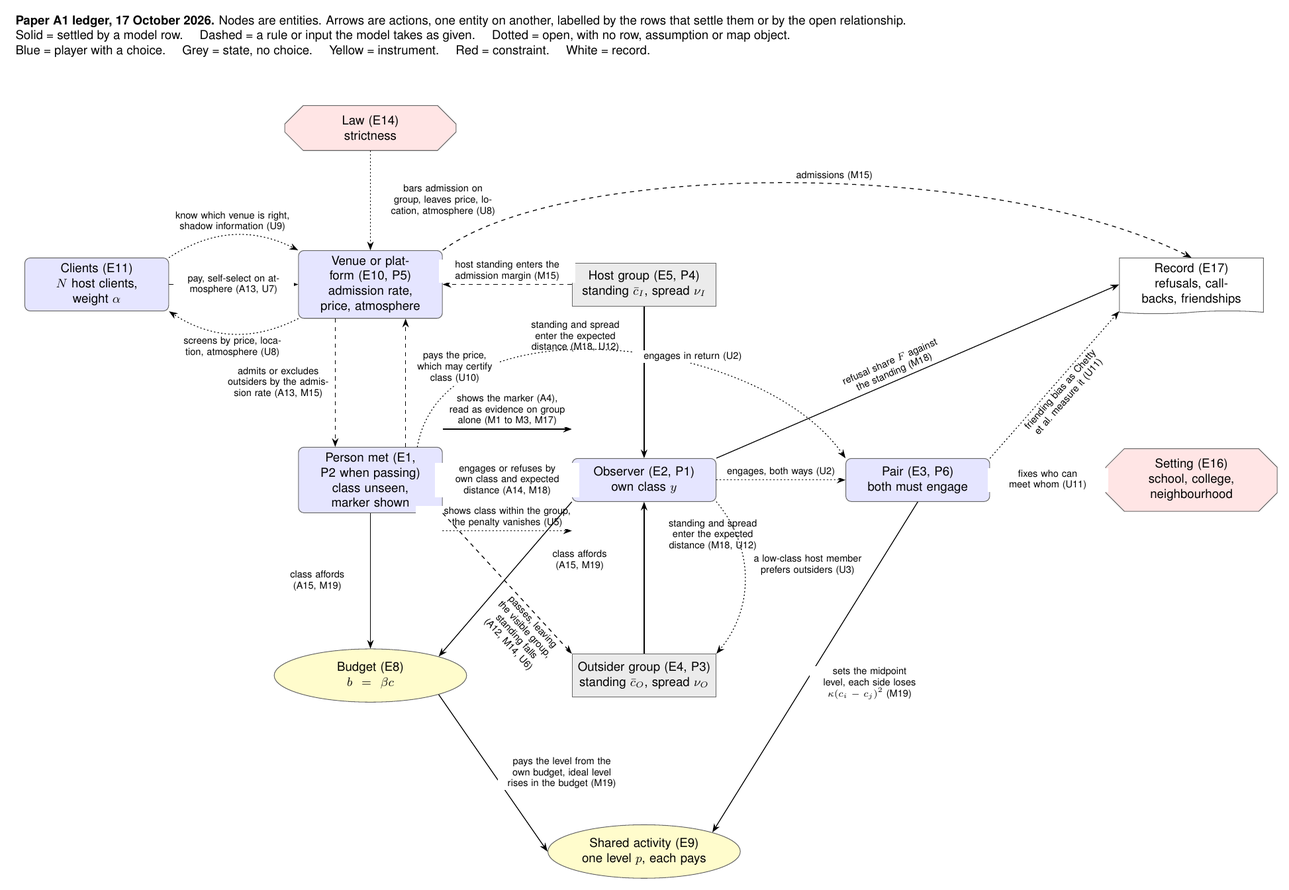
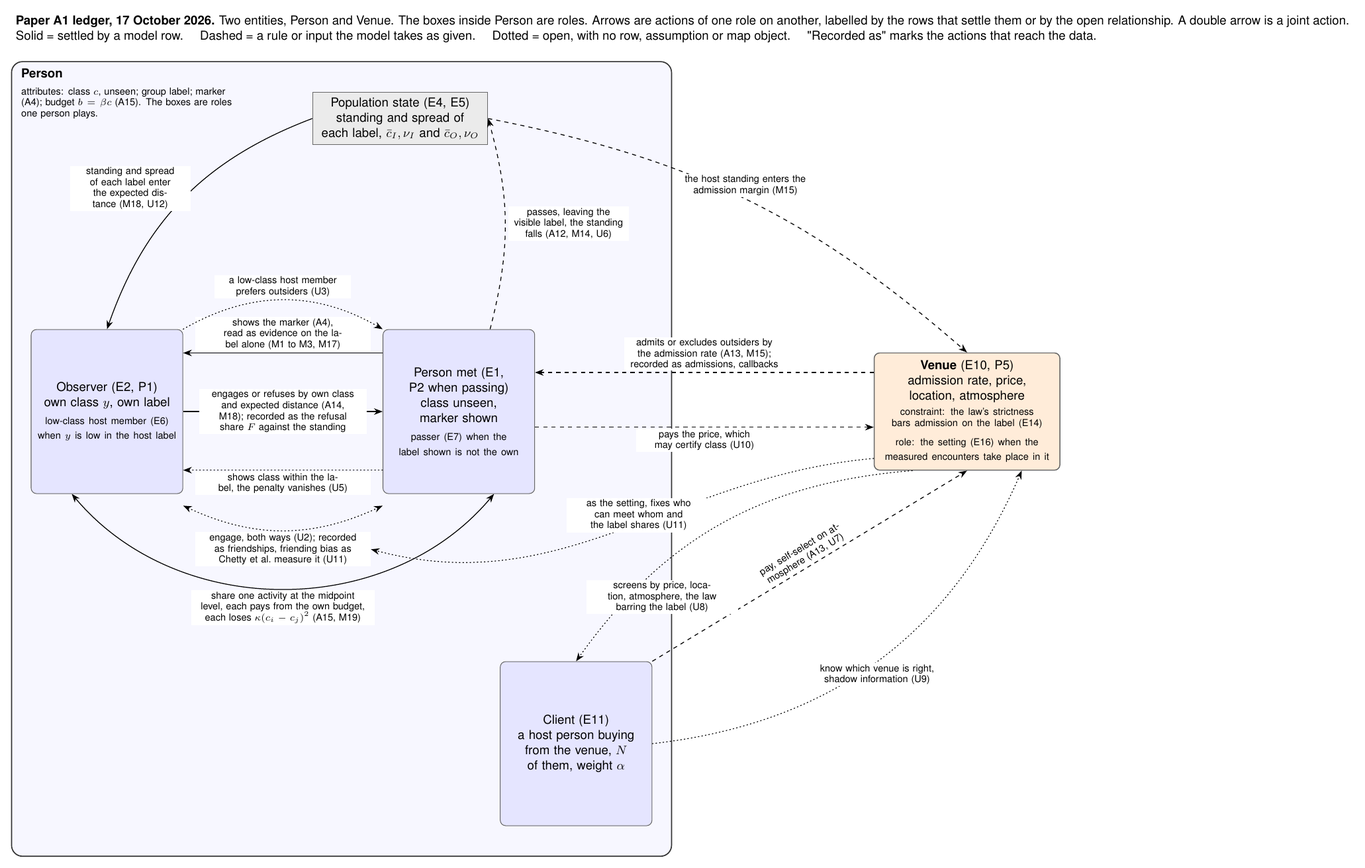
Ledger diagram: two entities, Person and Venue; roles, attributes and actions for the rest
The author's rule of 17 October 2026: the pair, the groups, the clients,
the law, the setting, the budget, the shared activity and the record are
not entities. The pair and the activity are joint actions, the groups are
the population state of Person, the clients are a role, the law is a
constraint on the venue, the setting is the venue in a role, the budget
is an attribute and the record is the measured-as status of an action.
Fifteen actions: four settled, five taken as given, six open.

Claude-Session: https://claude.ai/code/session_014wKmtj49okzQTBLL2ot8Zo

diff --git a/papers/subjective_racism/paper_a/notes/ledger_diagram.tex b/papers/subjective_racism/paper_a/notes/ledger_diagram.tex
@@ -1,83 +1,87 @@
 % Ledger diagram of Paper A1, 17 October 2026.
 %   pdflatex -output-directory=build notes/ledger_diagram.tex
-% Nodes are the entities of notes/ledger_diagram.md. Edges are actions, one
-% entity acting on another, labelled by the verb and the rows that settle it
-% or the open relationship (U numbers of notes/entities.md). Solid edges are
-% settled by a model row, dashed edges are rules or inputs the model takes as
-% given, and dotted edges are open.
+% Two entities, Person and Venue (notes/ledger_diagram.md, section 1). The
+% boxes inside Person are roles, not entities. Arrows are actions of one role
+% on another, labelled by the verb and the rows that settle them or by the
+% open relationship (U numbers of notes/entities.md). A double arrow is a
+% joint action. Solid = settled by a model row, dashed = a rule or input the
+% model takes as given, dotted = open. "Recorded as" marks the actions that
+% reach the data.
 \documentclass[tikz,border=8pt]{standalone}
 \usepackage[T1]{fontenc}
 \usepackage{helvet}
 \renewcommand{\familydefault}{\sfdefault}
 \usepackage{amsmath}
-\usetikzlibrary{arrows.meta,positioning,shapes.geometric,shapes.symbols,shapes.misc,calc}
+\usetikzlibrary{arrows.meta,positioning,fit,calc,backgrounds}
 \begin{document}
 \begin{tikzpicture}[
   >={Stealth[length=2.2mm]},
   every node/.style={font=\small},
-  ent/.style={draw=black!60, line width=0.5pt, align=center, text width=3.4cm, minimum height=1.1cm, inner sep=4pt},
-  player/.style={ent, rounded corners=4pt, fill=blue!10},
-  state/.style={ent, fill=black!8},
-  instr/.style={ent, ellipse, fill=yellow!20, text width=3.2cm},
-  constr/.style={ent, chamfered rectangle, chamfered rectangle xsep=10pt, fill=red!10},
-  record/.style={ent, fill=white, tape, tape bend top=none, tape bend height=2pt},
-  lab/.style={font=\scriptsize, align=center, fill=white, inner sep=1.2pt, text width=2.9cm},
+  role/.style={draw=black!60, line width=0.5pt, align=center, text width=3.6cm, minimum height=4.2cm, inner sep=4pt, rounded corners=4pt, fill=blue!10},
+  pop/.style={draw=black!60, line width=0.5pt, align=center, text width=4.2cm, minimum height=1.2cm, inner sep=4pt, fill=black!8},
+  venue/.style={draw=black!60, line width=0.7pt, align=center, text width=4.4cm, minimum height=3.0cm, inner sep=5pt, rounded corners=4pt, fill=orange!15},
+  entity/.style={draw=black!80, line width=0.8pt, rounded corners=8pt, inner sep=10pt, fill=blue!3},
+  title/.style={font=\small\bfseries, anchor=north west, align=left},
+  attr/.style={font=\scriptsize, anchor=north west, align=left, text width=5.6cm},
+  lab/.style={font=\scriptsize, align=center, fill=white, inner sep=1.2pt, text width=3.0cm},
   settled/.style={->, line width=0.6pt},
   given/.style={->, line width=0.6pt, dashed},
   open/.style={->, line width=0.6pt, dotted, line cap=round},
+  jointsettled/.style={<->, line width=0.6pt},
+  jointopen/.style={<->, line width=0.6pt, dotted, line cap=round},
 ]
-% ---------------------------------------------------------------- nodes
-\node[constr]  (Law)      at (1,14)    {Law (E14)\\ strictness};
-\node[player]  (Clients)  at (-6,10)   {Clients (E11)\\ $N$ host clients, weight $\alpha$};
-\node[player]  (Venue)    at (1,10)    {Venue or platform (E10, P5)\\ admission rate, price, atmosphere};
-\node[state]   (Host)     at (8,10)    {Host group (E5, P4)\\ standing $\bar c_I$, spread $\nu_I$};
-\node[record]  (Record)   at (22,10)   {Record (E17)\\ refusals, callbacks, friendships};
-\node[player]  (Person)   at (1,5)     {Person met (E1, P2 when passing)\\ class unseen, marker shown};
-\node[player]  (Observer) at (8,5)     {Observer (E2, P1)\\ own class $y$};
-\node[player]  (Pair)     at (15,5)    {Pair (E3, P6)\\ both must engage};
-\node[constr]  (Setting)  at (22,5)    {Setting (E16)\\ school, college, neighbourhood};
-\node[state]   (Outsider) at (8,0)     {Outsider group (E4, P3)\\ standing $\bar c_O$, spread $\nu_O$};
-\node[instr]   (Budget)   at (1,0)     {Budget (E8)\\ $b=\beta c$};
-\node[instr]   (Activity) at (8,-4.5)  {Shared activity (E9)\\ one level $p$, each pays};
+% ---------------------------------------------------------------- roles of Person
+\node[pop]  (Pop)      at (7.5,10.5)  {Population state (E4, E5)\\ standing and spread of each label, $\bar c_I,\nu_I$ and $\bar c_O,\nu_O$};
+\node[role] (Observer) at (0,3)      {Observer (E2, P1)\\ own class $y$, own label\\[2pt] \scriptsize low-class host member (E6) when $y$ is low in the host label};
+\node[role] (Person)   at (9,3)      {Person met (E1, P2 when passing)\\ class unseen, marker shown\\[2pt] \scriptsize passer (E7) when the label shown is not the own};
+\node[role] (Client)   at (12,-5.5) {Client (E11)\\ a host person buying from the venue, $N$ of them, weight $\alpha$};
 
-% ---------------------------------------------------------------- person and observer, three parallel actions
-\draw[settled] ([yshift=13mm]Person.east) -- node[lab, pos=0.5, above=1pt, text width=4.2cm] {shows the marker (A4), read as evidence on group alone (M1 to M3, M17)} ([yshift=13mm]Observer.west);
-\draw[settled] (Observer.west) -- node[lab, pos=0.5, text width=3.6cm] {engages or refuses by own class and expected distance (A14, M18)} (Person.east);
-\draw[open]    ([yshift=-13mm]Person.east) -- node[lab, pos=0.5, above=1pt, text width=4.6cm] {shows class within the group, the penalty vanishes (U5)} ([yshift=-13mm]Observer.west);
+% ---------------------------------------------------------------- the Person entity
+\begin{scope}[on background layer]
+\node[entity, fit=(Pop)(Observer)(Person)(Client), inner xsep=14pt, inner ysep=22pt] (PersonBox) {};
+\end{scope}
+\node[title] at ([xshift=4pt, yshift=-2pt]PersonBox.north west) {Person};
+\node[attr]  at ([xshift=4pt, yshift=-16pt]PersonBox.north west) {attributes: class $c$, unseen; group label; marker (A4); budget $b=\beta c$ (A15). The boxes are roles one person plays.};
 
-% ---------------------------------------------------------------- groups and the observer
-\draw[settled] (Host.south) -- node[lab, pos=0.2, anchor=east, xshift=-3pt, text width=3.2cm] {standing and spread enter the expected distance (M18, U12)} (Observer.north);
-\draw[settled] (Outsider.north) -- node[lab, pos=0.78, anchor=west, xshift=3pt, text width=3.2cm] {standing and spread enter the expected distance (M18, U12)} (Observer.south);
-\draw[open]    (Observer.south east) to[bend left=40] node[lab, pos=0.42, anchor=west, xshift=2pt, text width=3.0cm] {a low-class host member prefers outsiders (U3)} (Outsider.north east);
-\draw[given]   (Person.south east) -- node[lab, pos=0.74, sloped, below=1pt, text width=2.4cm] {passes, leaving the visible group, standing falls (A12, M14, U6)} (Outsider.north west);
+% ---------------------------------------------------------------- the Venue entity
+\node[venue] (Venue) at (22,3) {\textbf{Venue} (E10, P5)\\ admission rate, price, location, atmosphere\\[3pt] \scriptsize constraint: the law's strictness bars admission on the label (E14)\\[3pt] \scriptsize role: the setting (E16) when the measured encounters take place in it};
 
-% ---------------------------------------------------------------- the pair, the budget, the activity
-\draw[open]    (Observer.east) -- node[lab, pos=0.5, above=1pt, text width=3.0cm] {engages, both ways (U2)} (Pair.west);
-\draw[open]    ([xshift=12mm]Person.north) to[out=80, in=125, looseness=0.9] node[lab, pos=0.65, above=1pt, text width=3.0cm] {engages in return (U2)} (Pair.north west);
-\draw[settled] (Person.south) -- node[lab, pos=0.5, anchor=east, xshift=-3pt, text width=2.4cm] {class affords (A15, M19)} (Budget.north);
-\draw[settled] (Observer.south west) -- node[lab, pos=0.3, anchor=north west, xshift=2pt, text width=2.2cm] {class affords (A15, M19)} (Budget.north east);
-\draw[settled] (Budget.south east) -- node[lab, pos=0.5, anchor=west, xshift=3pt, text width=3.2cm] {pays the level from the own budget, ideal level rises in the budget (M19)} (Activity.west);
-\draw[settled] (Pair.south) -- node[lab, pos=0.55, anchor=west, xshift=3pt, text width=3.0cm] {sets the midpoint level, each side loses $\kappa(c_i-c_j)^2$ (M19)} (Activity.north east);
-\draw[open]    (Setting.west) -- node[lab, pos=0.5, text width=3.0cm] {fixes who can meet whom (U11)} (Pair.east);
+% ---------------------------------------------------------------- person on person, three straight actions
+\draw[settled] ([yshift=15mm]Person.west) -- node[lab, pos=0.5, above=1pt, text width=4.4cm] {shows the marker (A4), read as evidence on the label alone (M1 to M3, M17)} ([yshift=15mm]Observer.east);
+\draw[settled] (Observer.east) -- node[lab, pos=0.5, text width=4.2cm] {engages or refuses by own class and expected distance (A14, M18); recorded as the refusal share $F$ against the standing} (Person.west);
+\draw[open]    ([yshift=-15mm]Person.west) -- node[lab, pos=0.5, below=1pt, text width=4.4cm] {shows class within the label, the penalty vanishes (U5)} ([yshift=-15mm]Observer.east);
 
-% ---------------------------------------------------------------- the venue
-\draw[open]    (Law.south) -- node[lab, pos=0.5, anchor=west, xshift=3pt, text width=3.4cm] {bars admission on group, leaves price, location, atmosphere (U8)} (Venue.north);
-\draw[given]   (Host.west) -- node[lab, pos=0.5, above=1pt, text width=3.4cm] {host standing enters the admission margin (M15)} (Venue.east);
-\draw[given]   (Clients.east) -- node[lab, pos=0.5, text width=3.0cm] {pay, self-select on atmosphere (A13, U7)} (Venue.west);
-\draw[open]    (Clients.north east) to[bend left=30] node[lab, pos=0.5, above=1pt, text width=3.2cm] {know which venue is right, shadow information (U9)} (Venue.north west);
-\draw[open]    (Venue.south west) to[bend left=30] node[lab, pos=0.5, below=1pt, text width=3.2cm] {screens by price, location, atmosphere (U8)} (Clients.south east);
-\draw[given]   ([xshift=-9mm]Venue.south) -- node[lab, pos=0.5, anchor=east, xshift=-3pt, text width=2.6cm] {admits or excludes outsiders by the admission rate (A13, M15)} ([xshift=-9mm]Person.north);
-\draw[given]   ([xshift=9mm]Person.north) -- node[lab, pos=0.62, anchor=west, xshift=3pt, text width=2.2cm] {pays the price, which may certify class (U10)} ([xshift=9mm]Venue.south);
+% ---------------------------------------------------------------- the low-class host member, above
+\draw[open]    (Observer.north east) to[bend left=30] node[lab, pos=0.5, above=1pt, text width=3.4cm] {a low-class host member prefers outsiders (U3)} (Person.north west);
 
-% ---------------------------------------------------------------- the record
-\draw[settled] (Observer.north east) -- node[lab, pos=0.45, sloped, above=1pt, text width=3.2cm] {refusal share $F$ against the standing (M18)} (Record.west);
-\draw[given]   (Venue.north east) .. controls (6,13.2) and (17,13.2) .. node[lab, pos=0.55, above=1pt, text width=2.4cm] {admissions (M15)} (Record.north);
-\draw[open]    (Pair.north east) -- node[lab, pos=0.5, sloped, below=1pt, text width=3.2cm] {friending bias as Chetty et al.\ measure it (U11)} (Record.south west);
+% ---------------------------------------------------------------- the population state
+\draw[settled] (Pop.west) to[bend right=25] node[lab, pos=0.45, anchor=east, xshift=-2pt, text width=3.0cm] {standing and spread of each label enter the expected distance (M18, U12)} (Observer.north);
+\draw[given]   ([xshift=8mm]Person.north) to[bend right=15] node[lab, pos=0.5, anchor=west, xshift=2pt, text width=3.0cm] {passes, leaving the visible label, the standing falls (A12, M14, U6)} (Pop.east);
+
+% ---------------------------------------------------------------- the two joint actions, below
+\draw[jointopen]    ([yshift=-3mm]Observer.south east) to[bend right=25] node[lab, pos=0.5, below=1pt, text width=4.4cm] (PairLab) {engage, both ways (U2); recorded as friendships, friending bias as Chetty et al.\ measure it (U11)} ([yshift=-3mm]Person.south west);
+\draw[jointsettled] ([xshift=-9mm]Observer.south) to[bend right=50] node[lab, pos=0.5, below=1pt, text width=4.6cm] {share one activity at the midpoint level, each pays from the own budget, each loses $\kappa(c_i-c_j)^2$ (A15, M19)} ([xshift=9mm]Person.south);
+
+% ---------------------------------------------------------------- the venue and the person met
+\draw[given]   ([yshift=10mm]Venue.west) -- node[lab, pos=0.5, above=1pt, text width=4.0cm] {admits or excludes outsiders by the admission rate (A13, M15); recorded as admissions, callbacks} ([yshift=10mm]Person.east);
+\draw[given]   ([yshift=-4mm]Person.east) -- node[lab, pos=0.5, below=1pt, text width=3.4cm] {pays the price, which may certify class (U10)} ([yshift=-4mm]Venue.west);
+
+% ---------------------------------------------------------------- the venue as the setting
+\draw[open]    ([yshift=-12mm]Venue.west) to[out=185, in=-15] (PairLab.east);
+\node[lab, text width=3.6cm] at (13.6,0.35) {as the setting, fixes who can meet whom and the label shares (U11)};
+
+% ---------------------------------------------------------------- the population state and the venue
+\draw[given]   (Pop.east) to[bend left=15] node[lab, pos=0.5, above=1pt, text width=3.4cm] {the host standing enters the admission margin (M15)} (Venue.north);
+
+% ---------------------------------------------------------------- the clients and the venue
+\draw[given]   (Client.north east) -- node[lab, pos=0.5, sloped, above=1pt, text width=3.2cm] {pay, self-select on atmosphere (A13, U7)} (Venue.south);
+\draw[open]    (Client.east) to[bend right=30] node[lab, pos=0.5, below=1pt, text width=3.6cm] {know which venue is right, shadow information (U9)} ([xshift=14mm]Venue.south);
+\draw[open]    ([xshift=-14mm]Venue.south) to[bend right=25] (Client.north);
+\node[lab, text width=3.8cm] at (14.2,-1.75) {screens by price, location, atmosphere, the law barring the label (U8)};
 
 % ---------------------------------------------------------------- legend
-\node[font=\small, align=left, anchor=north west] at (-8.2,17) {%
-  \textbf{Paper A1 ledger, 17 October 2026.} Nodes are entities. Arrows are actions, one entity on another, labelled by the rows that settle them or by the open relationship.\\
-  Solid = settled by a model row. \quad Dashed = a rule or input the model takes as given. \quad Dotted = open, with no row, assumption or map object.\\
-  Blue = player with a choice. \quad Grey = state, no choice. \quad Yellow = instrument. \quad Red = constraint. \quad White = record.};
+\node[font=\small, align=left, anchor=south west] at ([yshift=10pt]PersonBox.north west) {%
+  \textbf{Paper A1 ledger, 17 October 2026.} Two entities, Person and Venue. The boxes inside Person are roles. Arrows are actions of one role on another, labelled by the rows that settle them or by the open relationship. A double arrow is a joint action.\\
+  Solid = settled by a model row. \quad Dashed = a rule or input the model takes as given. \quad Dotted = open, with no row, assumption or map object. \quad "Recorded as" marks the actions that reach the data.};
 \end{tikzpicture}
 \end{document}

diff --git a/papers/subjective_racism/paper_a/notes/ledger_diagram.md b/papers/subjective_racism/paper_a/notes/ledger_diagram.md
@@ -2,89 +2,88 @@
 
 A planning note, not part of the paper. It fixes the entities of Paper A1
 and the actions between them, so that the ledger can be drawn as a graph.
-The entities come from `notes/entities.md` (E numbers) and the Players
-table of `MANUSCRIPT.tex` (P numbers). The actions are the choices of the
-Players table, the operations the model rows prove, and the relationships
-still to be understood (U numbers of `notes/entities.md`). The drawing is
-`notes/ledger_diagram.tex`, rendered to `notes/ledger_diagram.pdf` and
-`notes/ledger_diagram.png`.
+The E numbers are those of `notes/entities.md`, the P numbers those of the
+Players table of `MANUSCRIPT.tex`, and the U numbers the open relationships
+of `notes/entities.md`. The drawing is `notes/ledger_diagram.tex`, rendered
+to `notes/ledger_diagram.pdf` and `notes/ledger_diagram.png`.
 
-## 1. Rules of the drawing
+## 1. The decision
 
-- A node is an entity. A player (blue) faces a choice. A state (grey)
-  faces none. An instrument (yellow) is what a player acts through. A
-  constraint (red) limits a player's choice set. The record (white) is what
-  an observer of the model writes down.
-- An arrow is an action of one entity on another, labelled by the verb and
-  by the rows that settle it or by the open relationship.
+The author's rule, 17 October 2026: an entity is something that acts or is
+acted on and is not a case of another entity. Roles, attributes and actions
+are not entities. Under that rule the seventeen items of `notes/entities.md`
+reduce to two entities.
+
+| Entity | Attributes | Population state | Roles a person or venue plays |
+|---|---|---|---|
+| Person | class, unseen; group label; marker (A4); budget $b=\beta c$ (A15) | the standing and spread of each label, $\bar c_I$, $\nu_I$, $\bar c_O$, $\nu_O$ (E4, E5) | observer (E2, P1); person met (E1, P2); passer, a person met who passes (E7); low-class host member, an observer of low class in the host label (E6); client, a host person buying from the venue (E11) |
+| Venue | admission rate, price, location, atmosphere (E10, P5); the law's strictness as a constraint, which bars admission on the label (E14) | none | the setting, when the measured encounters take place in it (E16) |
+
+What the first drawing had as nodes and this one does not.
+
+| Former node | What it is now |
+|---|---|
+| Pair (E3, P6) | The action "engage, both ways", a double arrow between the observer and the person met |
+| Host group, outsider group (E5, E4, P4, P3) | The population state of Person, the partition of persons by label with its standing and spread |
+| Clients (E11) | A role of Person |
+| Budget (E8) | An attribute of Person |
+| Shared activity (E9) | The action "share one activity at the midpoint level", a double arrow between the observer and the person met |
+| Law (E14) | A constraint on the venue's screening action |
+| Setting (E16) | A role of Venue, the venue in which the measured encounters happen |
+| Record (E17) | The measured-as column of the action table, the map's status word on the action |
+
+The marker (E12) and the class signal (E13) were already arrows, and so was
+shadow information (E15).
+
+## 2. Rules of the drawing
+
+- A node is an entity or a role of one. The Person box holds the role boxes
+  Observer, Person met and Client, and the Population state box. The Venue
+  box stands alone.
+- An arrow is an action of one role on another, labelled by the verb and by
+  the rows that settle it or by the open relationship. A double arrow is a
+  joint action of two roles.
 - Solid means a model row proves the action. Dashed means the model takes
   the action as a rule or an input. Dotted means open, with no row,
   assumption or map object.
-- Entities that `notes/entities.md` lists as cases of another entity are
-  drawn as arrows, not nodes. The passer (E7) is the arrow "passes" from
-  the person met to the outsider group, and the low-class host member (E6)
-  is the arrow "prefers outsiders" from the observer to the outsider group.
-  The marker (E12) and the class signal (E13) are the two arrows from the
-  person met to the observer. Shadow information (E15) is the arrow from
-  the clients to the venue.
-
-## 2. Entities
-
-| Node | Kind | Entity | Players table | Choice drawn as outgoing arrows |
-|---|---|---|---|---|
-| Person met | Player | E1, with the passer E7 as a case | P2 when passing | Shows the marker, shows class, passes, engages in return, pays the venue's price, class affords the budget |
-| Observer | Player | E2, with the low-class host member E6 as a case | P1 | Engages or refuses, engages both ways, prefers outsiders, class affords the budget, refusals reach the record |
-| Pair | Player | E3 | P6 | Sets the shared level, friendships reach the record |
-| Venue or platform | Player | E10 | P5 | Admits or excludes, screens the clients, admissions reach the record |
-| Clients | Player in the predecessor, input in M15 | E11 | None | Pay and self-select, know which venue is right |
-| Host group | State | E5 | P4 | None. Its standing and spread enter the observer's decision and the venue's margin |
-| Outsider group | State | E4 | P3 | None. Its standing and spread enter the observer's decision |
-| Budget | Instrument | E8 | None | None. It pays the activity level |
-| Shared activity | Instrument | E9 | None | None |
-| Law | Constraint | E14 | None | Bars admission on group |
-| Setting | Constraint | E16 | None | Fixes who can meet whom |
-| Record | Record | E17 | None | None |
+- An action that reaches the data carries "recorded as" in its label.
 
 ## 3. Actions
 
-| From | To | Action | Rows | Status |
-|---|---|---|---|---|
-| Person met | Observer | Shows the marker, read as evidence on group alone | A4, M1 to M3, M17 | Settled |
-| Observer | Person met | Engages or refuses by own class and expected distance | A14, M18 | Settled |
-| Person met | Observer | Shows class within the group, the penalty vanishes | U5 | Open |
-| Host group | Observer | Standing and spread enter the expected distance | M18, U12 | Settled |
-| Outsider group | Observer | Standing and spread enter the expected distance | M18, U12 | Settled |
-| Observer | Outsider group | A low-class host member prefers outsiders | U3 | Open |
-| Person met | Outsider group | Passes, leaving the visible group, the standing falls | A12, M14, U6 | Rule taken as given |
-| Observer | Pair | Engages, both ways | U2 | Open |
-| Person met | Pair | Engages in return | U2 | Open |
-| Person met | Budget | Class affords the budget | A15, M19 | Settled |
-| Observer | Budget | Class affords the budget | A15, M19 | Settled |
-| Budget | Shared activity | Pays the level from the own budget, the ideal level rises in the budget | M19 | Settled |
-| Pair | Shared activity | Sets the midpoint level, each side loses the sensitivity times the squared class gap | M19 | Settled |
-| Setting | Pair | Fixes who can meet whom | U11 | Open |
-| Law | Venue | Bars admission on group, leaves price, location and atmosphere | U8 | Open |
-| Host group | Venue | The host standing enters the admission margin | M15 | Input taken as given |
-| Clients | Venue | Pay, self-select on atmosphere | A13, U7 | Input taken as given |
-| Clients | Venue | Know which venue is right, shadow information | U9 | Open |
-| Venue | Clients | Screens by price, location and atmosphere | U8 | Open |
-| Venue | Person met | Admits or excludes outsiders by the admission rate | A13, M15 | Rule taken as given |
-| Person met | Venue | Pays the price, which may certify class | U10 | Input taken as given |
-| Observer | Record | The refusal share against the standing | M18 | Settled |
-| Venue | Record | Admissions | M15 | Input taken as given |
-| Pair | Record | Friending bias as Chetty et al. measure it | U11 | Open |
+| From | To | Action | Rows | Status | Recorded as |
+|---|---|---|---|---|---|
+| Person met | Observer | Shows the marker, read as evidence on the label alone | A4, M1 to M3, M17 | Settled | |
+| Observer | Person met | Engages or refuses by own class and expected distance | A14, M18 | Settled | the refusal share $F$ against the standing (M18) |
+| Person met | Observer | Shows class within the label, the penalty vanishes | U5 | Open | |
+| Population state | Observer | The standing and spread of each label enter the expected distance | M18, U12 | Settled | |
+| Observer | Person met | A low-class host member prefers outsiders | U3 | Open | |
+| Person met | Population state | Passes, leaving the visible label, the standing falls | A12, M14, U6 | Rule taken as given | |
+| Observer | Person met, both ways | Engage, both ways | U2 | Open | friendships, friending bias as Chetty et al. measure it (U11) |
+| Observer | Person met, both ways | Share one activity at the midpoint level, each pays from the own budget, each loses $\kappa(c_i-c_j)^2$ | A15, M19 | Settled | |
+| Venue | The encounter | As the setting, fixes who can meet whom and the label shares | U11 | Open | |
+| Venue | Person met | Admits or excludes outsiders by the admission rate | A13, M15 | Rule taken as given | admissions, callbacks (M15) |
+| Person met | Venue | Pays the price, which may certify class | U10 | Input taken as given | |
+| Client | Venue | Pays, self-selects on atmosphere | A13, U7 | Input taken as given | |
+| Client | Venue | Knows which venue is right, shadow information | U9 | Open | |
+| Venue | Client | Screens by price, location and atmosphere, the law barring the label | U8 | Open | |
+| Population state | Venue | The host standing enters the admission margin | M15 | Input taken as given | |
 
-Nine actions are settled, six are rules or inputs taken as given, and
-nine are open. The settled actions all lie in the encounter, between the
-person met, the observer, the groups, the budget and the activity. The
-venue's actions are taken as given or open, and the pair's own action, that
-both must engage, is open on both arrows.
+Fifteen actions. Four are settled, five are rules or inputs taken as given,
+and six are open. The first drawing had twenty-four arrows. Nine of them
+were merged here: the two group arrows into one from the population state,
+the two arrows into the pair into one double arrow, the four budget and
+activity arrows into one double arrow, the law's arrow into a constraint
+on the venue's screening, and the three arrows into the record into the
+measured-as column.
 
 ## 4. What the drawing says about the order of work
 
-The open arrows cluster in three places. The pair's two arrows and the
-setting's arrow are the equilibrium and the puzzle (U2, U11). The class
-signal's arrow is the vanishing penalty (U5). The venue's four open arrows
-are the shadow market (U8, U9). The low-class host member's arrow (U3) is
-a property of the settled decision and can be a row on its own. That
-matches the order of `notes/entities.md`, section 3.
+The settled actions are all person on person: the marker, the refusal, the
+population state entering the expected distance, and the shared activity.
+The two double arrows between the observer and the person met are the
+heart of the model, and one of them, that both must engage, is open (U2).
+The venue has no settled action. Its arrows are taken as given or open, and
+its open arrows are the shadow market (U8, U9) and the setting's arrow into
+the encounter (U11). That matches the order of `notes/entities.md`,
+section 3: the equilibrium of the encounter first, then the class signal
+(U5), then the venue.
